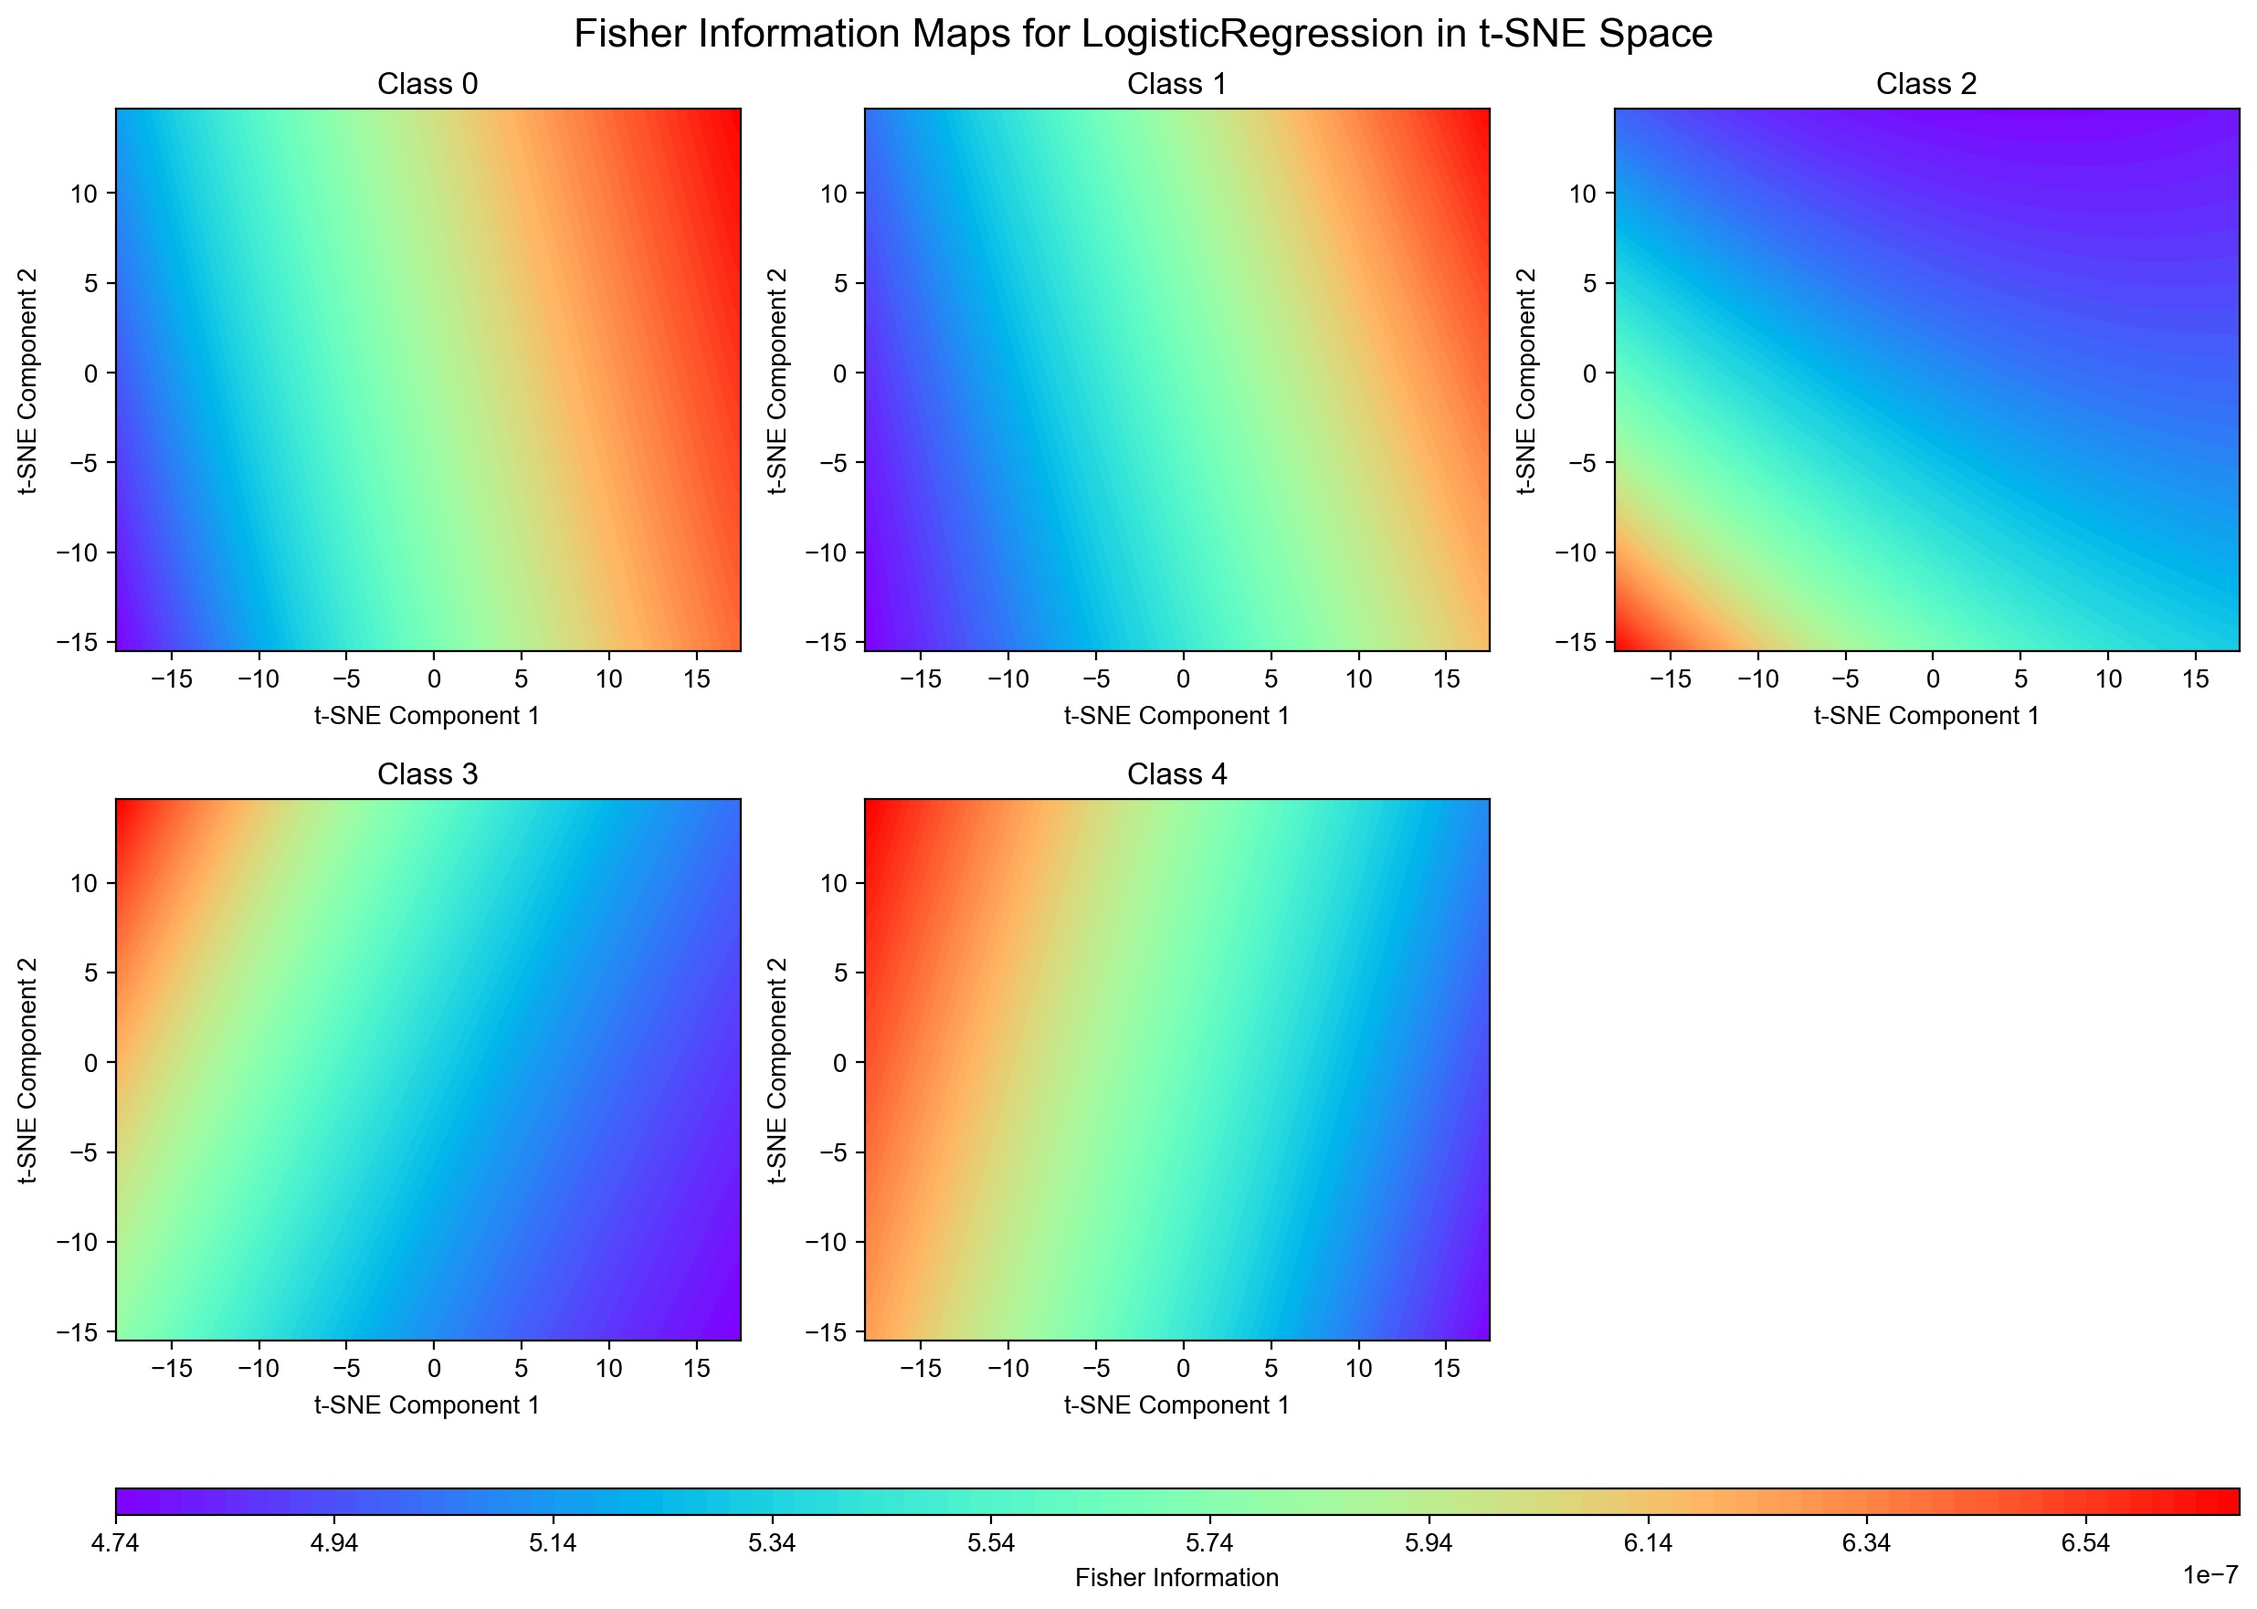
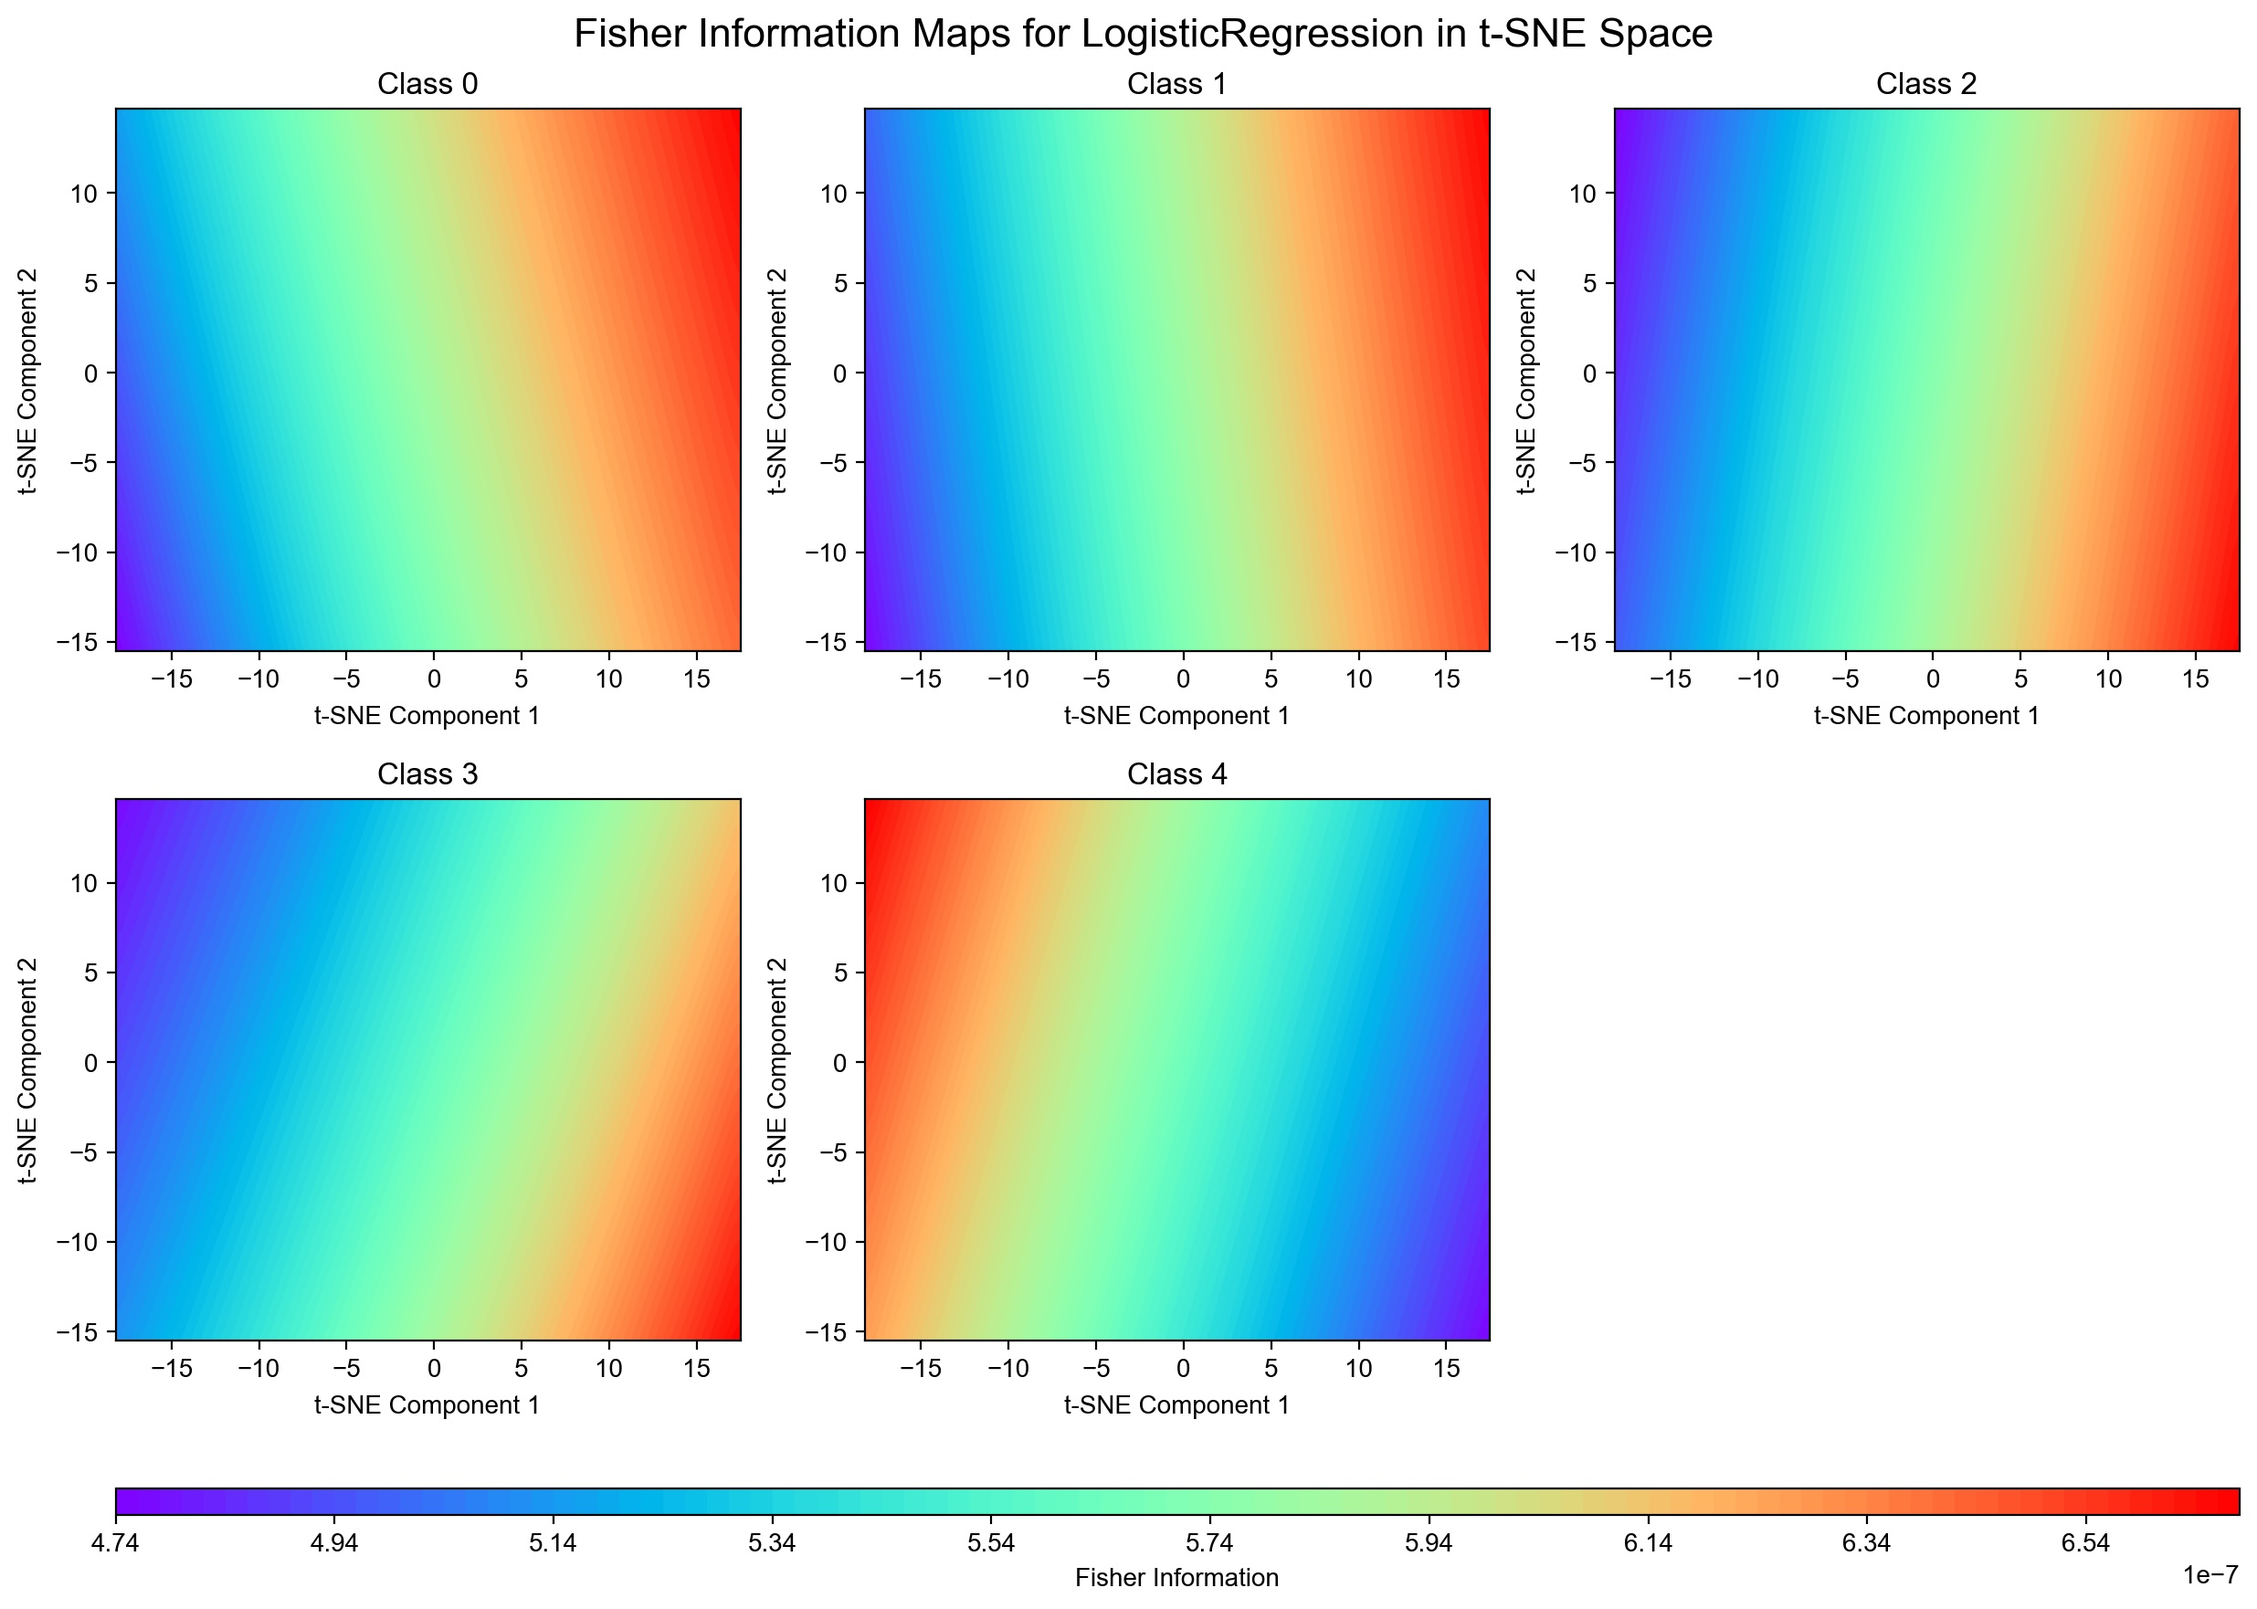
use original paper's approach

Changed region(s): [[0.0312, 0.4994, 0.3428, 0.8428], [0.7167, 0.0624, 0.9972, 0.4058], [0.3739, 0.0936, 0.6856, 0.4058]]

diff --git a/ordinal-classification/ordinal_classifier.py b/ordinal-classification/ordinal_classifier.py
@@ -11,6 +11,18 @@ class OrdinalClassifier(BaseEstimator, ClassifierMixin):
     """
     A classifier that can be trained on a range of classes.
     @param classifier: A scikit-learn classifier.
+    
+    Change: changed the calculation of intermediate probabilities 
+    to be the product of the previous and the next class 
+    probabilities as in the original paper.
+    
+    Source:
+        Eibe Frank and Mark Hall. 
+        A Simple Approach to Ordinal Classification. 
+        Machine Learning: ECML 2001. 
+        Lecture Notes in Computer Science, vol 2167. 
+        Springer, Berlin, Heidelberg. 
+        https://link.springer.com/chapter/10.1007/3-540-44795-4_13
     """
 
     def __init__(self, clf):
@@ -43,7 +55,7 @@ class OrdinalClassifier(BaseEstimator, ClassifierMixin):
         p_x_first = 1 - predicted[0]
         p_x_last = predicted[-1]
         p_x_middle = [
-            predicted[i] - predicted[i + 1]
+            predicted[i] * (1 - predicted[i + 1]) # product as per paper
             for i in range(len(predicted) - 1)
         ]
 

diff --git a/ordinal-classification/README.md b/ordinal-classification/README.md
@@ -21,12 +21,11 @@ For example we model the probability of class 1 out of 5 classes as:
 For the last class:
 - $P(target > 4) = P(target = 5)$
 
-The classes in between are modeled as:
-- $P(target > k) - P(target > k+1)$
+The classes in between can be modeled either as:
+- $P(target > k) - P(target > k+1)$ (approach in the scikit-learn implementation by @mosh98)
+- $P(target > k) × (1-P(target > k+1))$ (original approach, p. 148)
 
-Note that this differs from the original paper, where they use multiplication instead of subtraction.
-
-This way we can model the ordinal nature of the target variable.
+Both approaches work well, but the original approach showed better results on our dataset.
 
 **Reference:**
 > Eibe Frank and Mark Hall. A Simple Approach to Ordinal Classification. Machine Learning: ECML 2001. Lecture Notes in Computer Science, vol 2167. Springer, Berlin, Heidelberg. [Link](https://link.springer.com/chapter/10.1007/3-540-44795-4_13)
